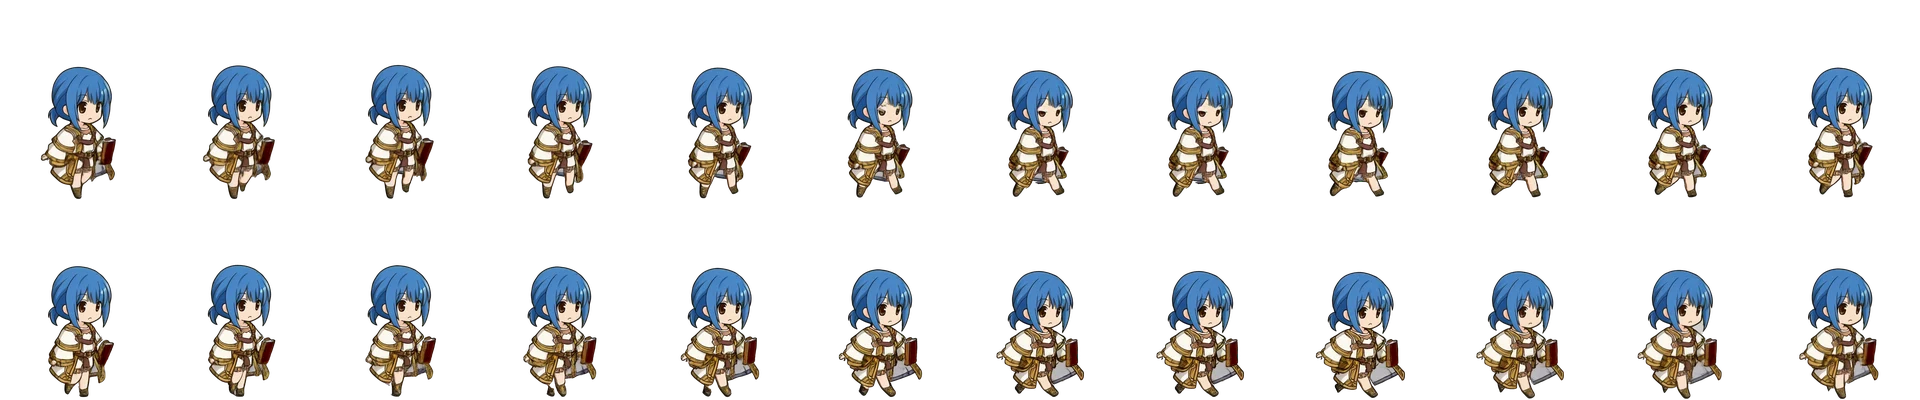
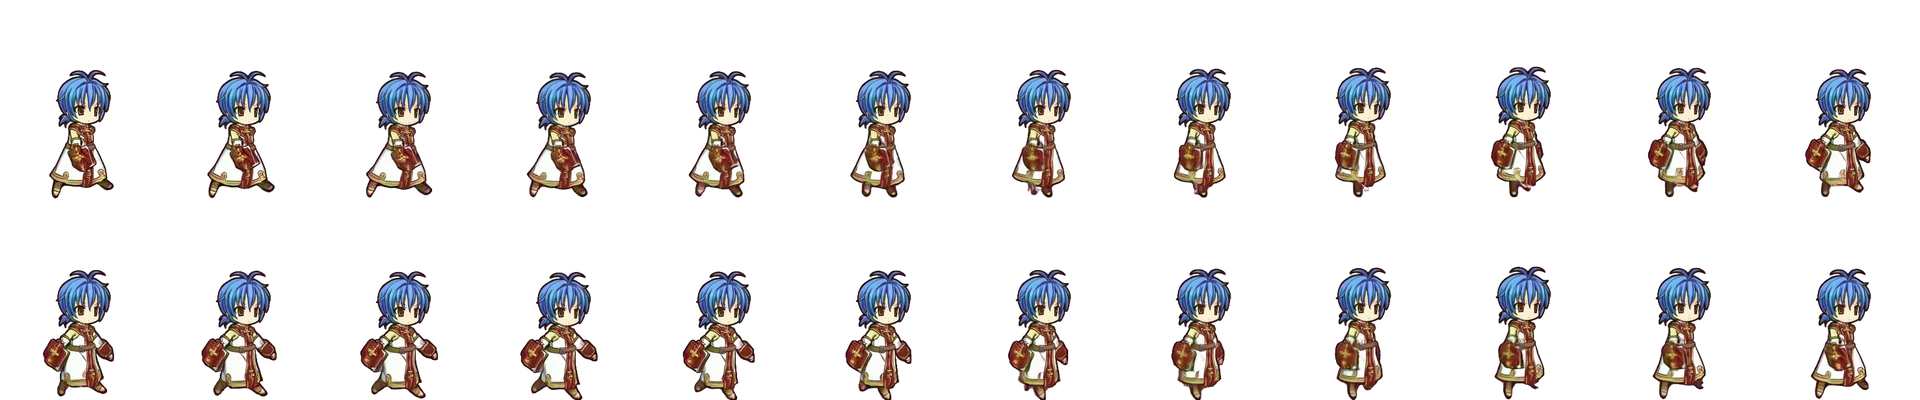
남자 성직자 걷기 시트 교체 (지금 디자인 옷으로 다시 만듦)
- assets/lobby_iso/chr/cleric_m_walk.webp: LTX 시드 10306, 한 주기 24프레임, 자홍 번짐·작은 조각 제거
  (로비 걷기와 미니 뷰 걷기에서 함께 쓰임, 규격 160×200 · 24칸 그대로)
- 문서: todo에 걷기 교체와 화면 손질 6건(반영 대기) 기록, 작업 로그

Claude-Session: https://claude.ai/code/session_01J3TTMGdbZ2Xf1294h6M21t

diff --git a/docs/todo.md b/docs/todo.md
@@ -11,6 +11,8 @@ SD 스프라이트·모션(달리기·공격·대기)·Gemini·ComfyUI 작업은
   - 2026-11-16 11:48 결정: **지명 섭외비 = 등급 고정액** F 20G · E 40G · D 80G · C 150G · B 250G · A 400G · S 600G (`econ.scoutFee`). **부탁할 때마다 지불, 거절당해도 나감** · 의뢰한 본인은 없음 · **장부(운영 순이익)에 넣음**(지출 "지명 섭외비" 줄). 작업 공간 사본 측정(100판): 월 순이익 게임 409G / 시뮬레이터 441G, 1년 차 말 금고 3,536G — 거절분까지 나가서 연 약 1,400G로 예상(550G)보다 큼 → **금액 그대로 두기로 결정 (12:25)**
   - 2026-11-16 진행: 서브 퀘스트 28개 + 지명 + 리퀘스트 장을 **작업 공간 사본에서 구현**(반영 전). 관문 1 게임 529G · 95.0% / 시뮬레이터 524G · 93.9%, 1년 차 말 금고 4,934G
   - 2026-11-16 11:22 결정: **조건값은 Claude가 정함(기준 15)** · **마감 기간 없음**(재요청 기간도 불필요). **거절은 남김(B안)**: 수락 확률 그대로, 거절당해도 다음 주에 바로 다시 지명 가능. **마감 없음은 일반 서브 퀘스트 전체**에 적용. **계절 퀘스트는 그 계절에만 진행 가능, 사라지지 않음**(계절이 지나면 잠기고 다음 해 같은 계절에 다시 열림). `sub_quest_F_v1.md`의 6주 마감 · 기한 넘김 대사는 구현 때 이에 맞춰 고침 — [design/nomination_v1.md](design/nomination_v1.md) 7-2
+- [x] ~~남자 성직자 걷기 시트 교체~~ (2026-11-16 12:33 반영 · 13:45 커밋, LTX 시드 10306, 옷을 지금 디자인으로 맞춤, `assets/lobby_iso/chr/cleric_m_walk.webp`).
+- [ ] 화면 손질 6건 반영 `반영 대기` (2026-11-16) — 미니 뷰 데미지 숫자 · 빈자리 채우기 · 노란 게이지 유지, 명부 등급 배지 · 상태 문구 줄임, 승급 카드 자동 닫힘(3.5초), 상단 HUD 오버 설명 카드와 문구. 작업 공간 `ui_fix_1116b/`
 - [ ] 모험가 대화창 초상 **A안(허리 위까지) 확정** (2026-11-16) — 남은 것: 배경 제거 · 깜빡임, **전사 남은 지금 디자인(갈색 머리)으로 다시 생성** `미착수` (작업 공간 `adv_portrait/`)
 - [ ] 지명 퀘스트 방식 **4가지 결정됨** (2026-11-16, [design/nomination_v1.md](design/nomination_v1.md) 7장): 대상 = 퀘스트별 최소 능력치 조건을 채운 모험가 · 수락 = 전직 규칙 + 정수 % · 보상 = 게시판처럼 보수 몫 · 대열 = 항상 자동. 시험판은 밤사이 작업 3 E에서 만듦(작업 공간 `nomination_trial/`). 바탕 구조는 [design/named_sub_quest_v1.md](design/named_sub_quest_v1.md)
 - [ ] 대사 검수 결과 반영 — [reports/대사_검수_2026-11-15.md](reports/대사_검수_2026-11-15.md)

diff --git a/docs/plan/밤사이_작업.md b/docs/plan/밤사이_작업.md
@@ -623,3 +623,6 @@
 - 로비: `lobby_eat/files/js/actors.js` · `manifest.js` → `prototype/js/`, 시트 · json 40개 → `assets/lobby_eat/`
 - 대사: `dialog_fix/files/` 5개 → `prototype/` (`data_build.py`는 돌리지 않음)
 - 확인: 저장소 게임을 열고 6주 진행, 오류 0 · 빠진 파일 0 · 식사 · 맥주 시트 20장 모두 읽힘
+
+### 2026-11-16 낮
+- 12:33 남자 성직자 걷기 다시 만듦 → 반영. LTX 4개(시드 10300~10306) 중 10306, 한 주기 24프레임(원본 14~37번), 자홍 번짐 · 작은 조각 제거. 이음매 차이 5.4(이웃 프레임 평균 5.0), 키 · 발 위치는 옛 시트와 같음
